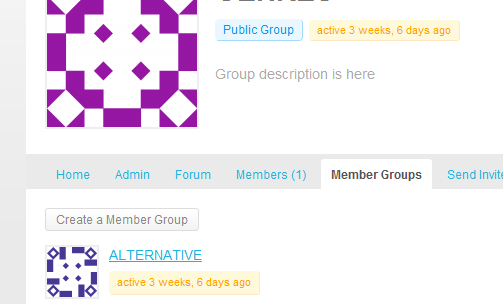
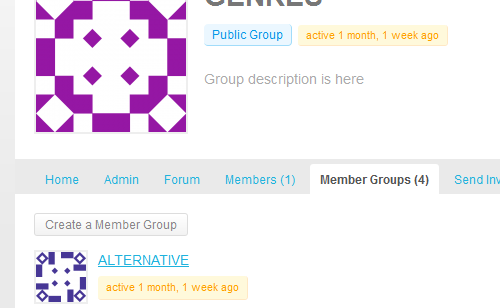
Tagging 1.0.9
git-svn-id: http://plugins.svn.wordpress.org/bp-group-hierarchy/trunk@370680 b8457f37-d9ea-0310-8a92-e5e31aec5664

diff --git a/extension.php b/extension.php
@@ -15,11 +15,15 @@ class BP_Groups_Hierarchy_Extension extends BP_Group_Extension {
 		
 		global $bp;
 		
-		$nav_item_name = get_site_option( 'bpgh_extension_nav_item_name', __('Member Groups','bp-group-hierarchy') );
+		$nav_item_name = get_site_option( 'bpgh_extension_nav_item_name', __('Member Groups (%d)','bp-group-hierarchy') );
 		
 		$this->name = __( 'Group Hierarchy', 'bp-group-hierarchy' );
-		$this->nav_item_name = __( 'Member Groups', 'bp-group-hierarchy' );
 		$this->nav_item_name = $nav_item_name;
+		
+		if($bp->groups->current_group) {
+			$this->nav_item_name = sprintf($this->nav_item_name, BP_Groups_Hierarchy::get_total_subgroup_count( $bp->groups->current_group->id ) );
+		}
+		
 		$this->slug = 'hierarchy';
 		
 		if(isset($_COOKIE['bp_new_group_parent_id'])) {
@@ -575,6 +579,7 @@ function bp_group_hierarchy_admin_page() {
 					<td>
 						<input type="text" id="nav_item_name" name="options[nav_item_name]" value="<?php echo $options['nav_item_name'] ?>" /><br />
 						<?php _e("Name of the nav item on an individual group's page.",'bp-group-hierarchy'); ?>
+						<?php _e("Use <code>%d</code> to include the number of child groups.",'bp-group-hierarchy'); ?>
 					</td>
 				</tr>
 				<tr valign="top">

diff --git a/index.php b/index.php
@@ -3,10 +3,10 @@
 Plugin Name: BP Group Hierarchy
 Plugin URI: http://www.jerseyconnect.net/development/buddypress-group-hierarchy/
 Description: Allows BuddyPress groups to belong to other groups
-Version: 1.0.8
-Revision Date: 03/25/2011
+Version: 1.0.9
+Revision Date: 04/08/2011
 Requires at least: PHP 5, WP 3.0, BuddyPress 1.2
-Tested up to: WP 3.1 , BuddyPress 1.2.8
+Tested up to: WP 3.1.1 , BuddyPress 1.2.8
 License: Example: GNU General Public License 2.0 (GPL) http://www.gnu.org/licenses/gpl.html
 Author: David Dean
 Author URI: http://www.jerseyconnect.net/development/

diff --git a/classes.php b/classes.php
@@ -227,6 +227,16 @@ class BP_Groups_Hierarchy extends BP_Groups_Group {
 		
 	}
 	
+	function get_total_subgroup_count( $group_id = null ) {
+		global $wpdb, $bp;
+
+		if(is_null($group_id) && isset($this->id)) {
+			$group_id = $this->id;
+		}
+
+		$group_count = $wpdb->get_var( $wpdb->prepare( "SELECT COUNT(id) FROM {$bp->groups->table_name} WHERE parent_id = %d AND status != 'hidden'", $group_id ) );
+		return (is_null($group_count)) ? 0 : $group_count;
+	}
 	
 	function __isset($varName) {
 		return array_key_exists($varName,$this->vars);
